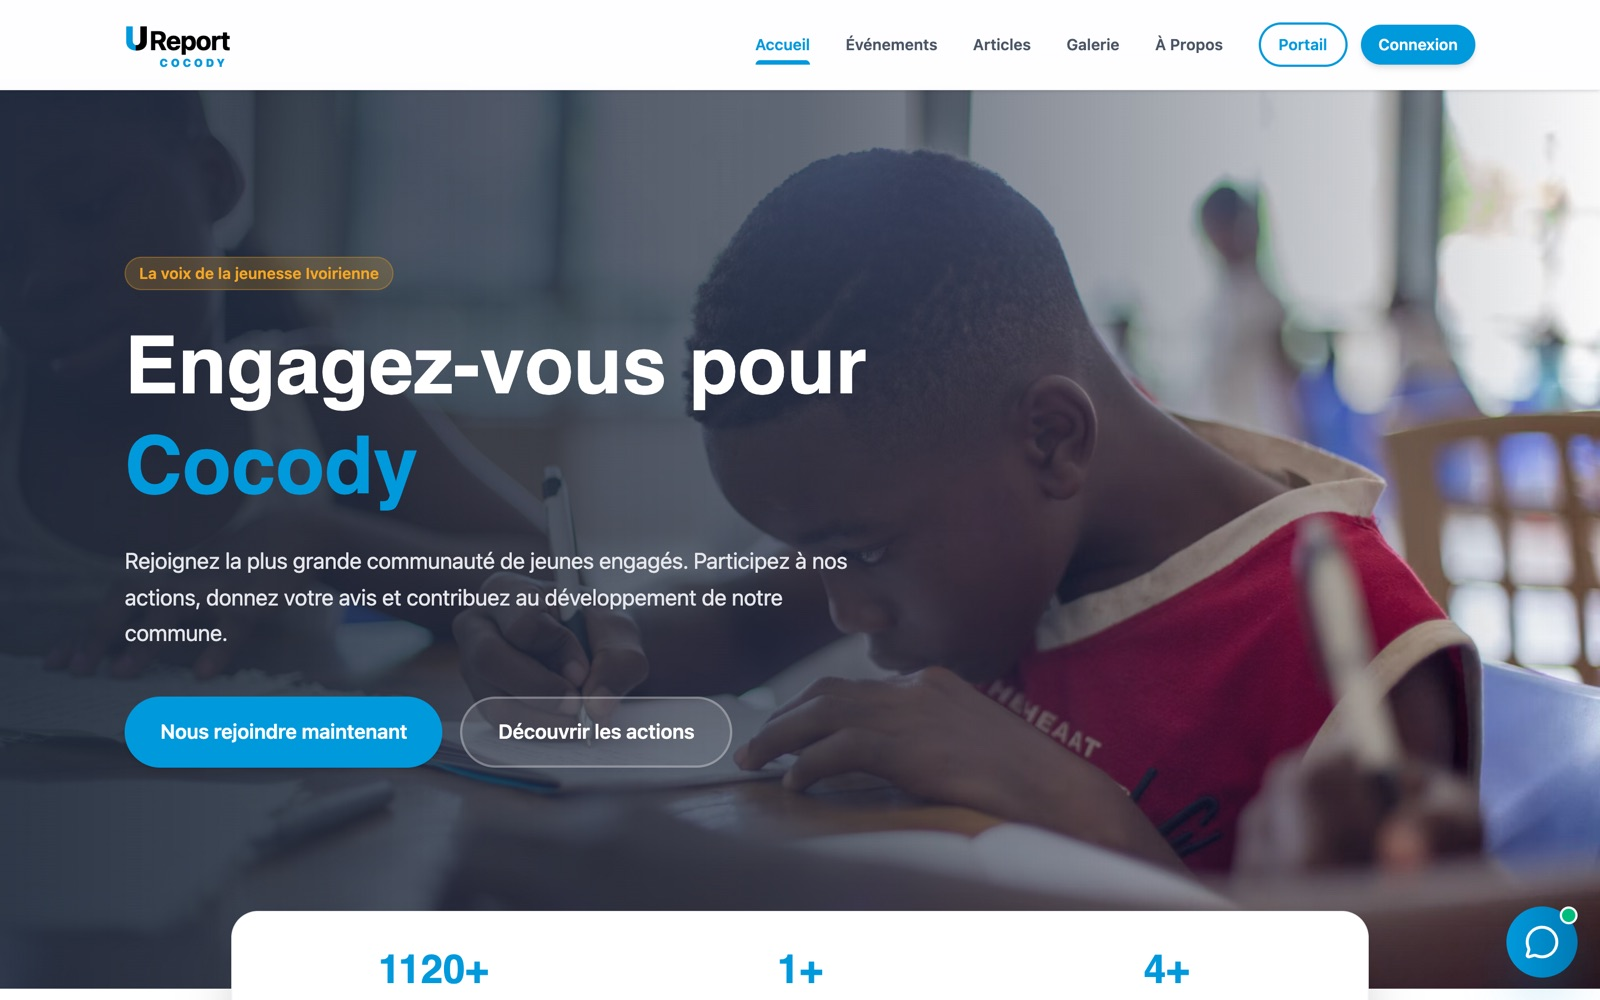
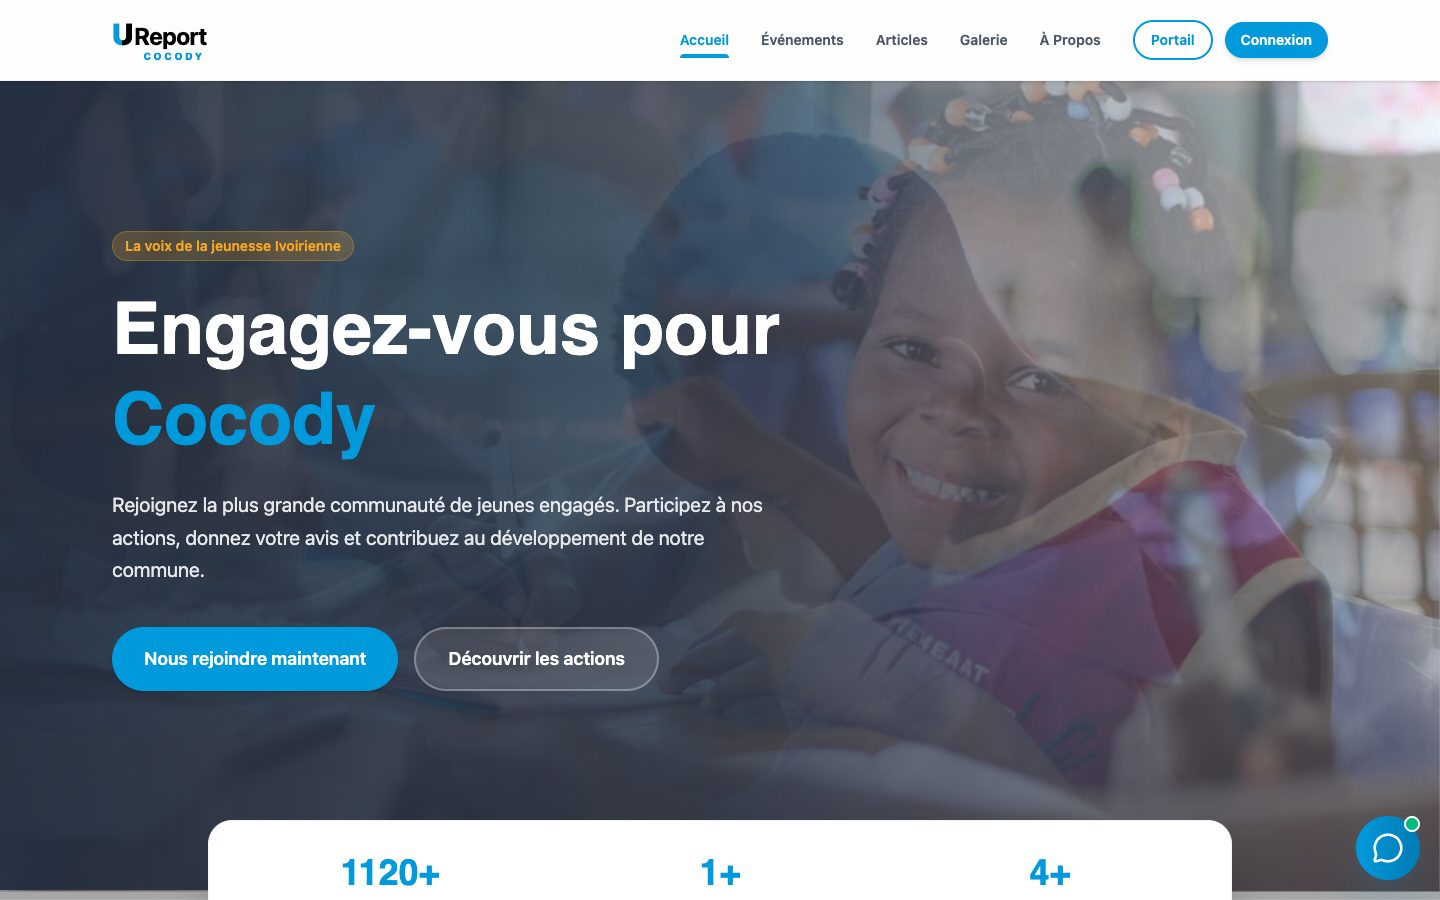
Captures des sites en ligne mises à jour automatiquement ; Babi Residence
- Script qui refait les captures (Babi Residence, U-Report, PaymeChap) avant chaque
  publication, avec garde-fous : attente du réveil du serveur et du chargement,
  fenêtre des cookies fermée, ancienne image gardée si la page n'est pas prête
- Republication quotidienne à 6 h pour suivre le design actuel des sites
- Sankofart Résidence renommé Babi Residence ; descriptions d'images indépendantes du texte des sites

diff --git a/src/data/projects.ts b/src/data/projects.ts
@@ -46,7 +46,7 @@ export const projects: Project[] = [
     year: "2026",
     featured: true,
     cover: { kind: "image", src: asset("/projects/paymechap.jpg"), position: "center" },
-    coverAlt: { fr: "Site de PaymeChap : « Votre argent, à portée de main », avec l'écran d'accueil de l'application (solde, transferts, paiement par QR code)", en: "PaymeChap website: “Your money, at hand”, showing the app home screen (balance, transfers, QR code payment)" },
+    coverAlt: { fr: "Capture actuelle du site paymechap.com : présentation du portefeuille mobile PaymeChap et de son application", en: "Current screenshot of paymechap.com: presentation of the PaymeChap mobile wallet and its app" },
     tagline: {
       fr: "Un portefeuille mobile pour gérer ses wallets, transférer et payer par QR code — entre particuliers comme en boutique.",
       en: "A mobile wallet to manage wallets, transfer money and pay by QR code — between people and in shops.",
@@ -323,7 +323,7 @@ export const projects: Project[] = [
     year: "2026",
     highlight: { fr: "En ligne", en: "Live" },
     cover: { kind: "image", src: asset("/projects/ureport-cocody.jpg"), position: "center top" },
-    coverAlt: { fr: "Page d'accueil de U-Report Cocody : « Engagez-vous pour Cocody », plateforme de la jeunesse ivoirienne", en: "U-Report Cocody home page: “Get involved for Cocody”, a platform for Ivorian youth" },
+    coverAlt: { fr: "Capture actuelle de la page d'accueil de U-Report Cocody, la plateforme de la communauté de jeunes de Cocody", en: "Current screenshot of the U-Report Cocody home page, the platform of the Cocody youth community" },
     tagline: {
       fr: "La plateforme de la communauté U-Report de Cocody : événements, présence par QR Code, espace membre, cotisations et back-office.",
       en: "The platform of Cocody's U-Report community: events, QR-code attendance, member area, membership fees and back office.",
@@ -413,13 +413,13 @@ export const projects: Project[] = [
     links: { repo: "https://github.com/dav9fulldev/Alerto" },
   },
   {
-    slug: "sankofart-residence",
-    name: "Sankofart Résidence",
+    slug: "babi-residence",
+    name: "Babi Residence",
     category: { fr: "Hôtellerie · Web full-stack", en: "Hospitality · Full-stack web" },
     year: "2026",
     highlight: { fr: "Hôtellerie", en: "Hospitality" },
     cover: { kind: "image", src: asset("/projects/residence.jpg") },
-    coverAlt: { fr: "Page d'accueil de Sankofart Résidence : « Découvrez le Luxe et le Confort », réservation de résidences meublées en Côte d'Ivoire", en: "Sankofart Résidence home page: “Discover luxury and comfort”, booking furnished residences in Côte d'Ivoire" },
+    coverAlt: { fr: "Capture actuelle de la page d'accueil du site de réservation de résidences meublées à Abidjan, avec sa recherche par dates et par quartier", en: "Current screenshot of the home page of the furnished-residence booking site in Abidjan, with search by dates and neighbourhood" },
     tagline: {
       fr: "Réservation en ligne de résidences meublées en Côte d'Ivoire, de la vitrine à l'administration.",
       en: "Online booking for furnished residences in Côte d'Ivoire, from storefront to back office.",

diff --git a/src/components/Projects.tsx b/src/components/Projects.tsx
@@ -13,7 +13,7 @@ import { CarouselNav, SLIDE, TRACK, useCarousel } from "./Carousel";
 // Composition éditoriale : alternance de largeurs sur une grille de 12 colonnes.
 // Ordre : du projet le plus parlant (primé, fintech) aux réalisations plus modestes.
 const SPANS = ["lg:col-span-7", "lg:col-span-5", "lg:col-span-5", "lg:col-span-7", "lg:col-span-4", "lg:col-span-4", "lg:col-span-4"];
-const ORDER = ["storygriot-ai", "paymechap", "sika-pay", "restogestion", "ureport-cocody", "sankofart-residence", "alerto"];
+const ORDER = ["storygriot-ai", "paymechap", "sika-pay", "restogestion", "ureport-cocody", "babi-residence", "alerto"];
 const HASH_PREFIX = "#projects/";
 
 export function Projects() {

diff --git a/src/i18n/translations.ts b/src/i18n/translations.ts
@@ -149,7 +149,7 @@ const fr = {
       {
         t: "Site ou application web",
         d: "Site vitrine, plateforme de réservation, espace membre ou back-office : de la maquette à la mise en ligne.",
-        ex: "Sankofart Résidence, U-Report Cocody",
+        ex: "Babi Residence, U-Report Cocody",
       },
       {
         t: "Application mobile",
@@ -404,7 +404,7 @@ const en: Dict = {
       {
         t: "Website or web app",
         d: "Showcase site, booking platform, member area or back office: from mock-up to launch.",
-        ex: "Sankofart Résidence, U-Report Cocody",
+        ex: "Babi Residence, U-Report Cocody",
       },
       {
         t: "Mobile app",
